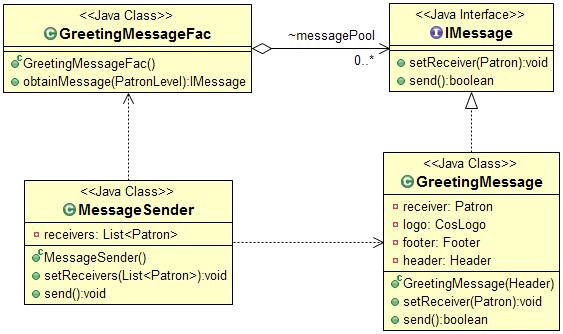
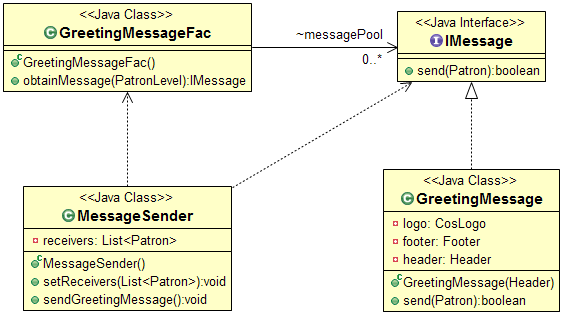
update flyweight pattern

diff --git a/MaoMao/src/ustc/maomao/patterns/flyweight/GreetingMessage.java b/MaoMao/src/ustc/maomao/patterns/flyweight/GreetingMessage.java
@@ -18,8 +18,7 @@ import ustc.maomao.patterns.support.Patron;
  * 
  */
 public class GreetingMessage implements IMessage {
-
-	private Patron receiver;// 消息接收者
+	
 	private CosLogo logo = CosLogo.instance();// 商标
 	private Footer footer = Footer.instance();// 尾注
 	private Header header;// 头注
@@ -28,27 +27,16 @@ public class GreetingMessage implements IMessage {
 		header = h;
 	}
 
-	/*
-	 * (non-Javadoc)
-	 * 
-	 * @see
-	 * ustc.maomao.patterns.flyweight.IMessage#setPatron(ustc.maomao.patterns.
-	 * support.Patron)
-	 */
-	@Override
-	public void setReceiver(Patron p) {
-		// TODO Auto-generated method stub
-		receiver = p;
-	}
-
+	
 	/*
 	 * (non-Javadoc)
 	 * 
 	 * @see ustc.maomao.patterns.flyweight.IMessage#send()
 	 */
 	@Override
-	public boolean send() {
-		System.out.println("消息已发送");
+	public boolean send(Patron r) {
+		Patron receiver=r;// 消息接收者
+		System.out.println(r.getName()+"的消息已发送");
 		return true;
 	}
 

diff --git a/MaoMao/src/ustc/maomao/patterns/flyweight/FlyweightTester.java b/MaoMao/src/ustc/maomao/patterns/flyweight/FlyweightTester.java
@@ -34,15 +34,18 @@ public class FlyweightTester implements PatternTester {
 			Patron p = new Patron();
 			if (i % 7 == 0) {
 				p.setLevel(PatronLevel.VIP);
+				p.setName("vip"+i);
 			} else if (i % 5 == 0) {
 				p.setLevel(PatronLevel.SVIP);
+				p.setName("svip"+i);
 			} else {
 				p.setLevel(PatronLevel.Normal);
+				p.setName("noraml"+i);
 			}
 			patrons.add(p);
 		}
 		ms.setReceivers(patrons);
-		ms.send();
+		ms.sendGreetingMessage();
 	}
 
 }

diff --git a/MaoMao/src/ustc/maomao/patterns/flyweight/MessageSender.java b/MaoMao/src/ustc/maomao/patterns/flyweight/MessageSender.java
@@ -30,12 +30,11 @@ public class MessageSender {
 	/**
 	 * 根据接收者列表发送消息
 	 */
-	public void send() {
+	public void sendGreetingMessage() {
 		GreetingMessageFac fac = new GreetingMessageFac();
 		for (Patron p : receivers) {
 			IMessage message = fac.obtainMessage(p.getLevel());
-			message.setReceiver(p);
-			message.send();
+			message.send(p);
 		}
 	}
 }

diff --git a/MaoMao/src/ustc/maomao/patterns/flyweight/IMessage.java b/MaoMao/src/ustc/maomao/patterns/flyweight/IMessage.java
@@ -16,13 +16,8 @@ import ustc.maomao.patterns.support.Patron;
  */
 public interface IMessage {
     /**
-     * 设置消息接收客户
-     * @param p 客户对象
-     */
-    public void setReceiver(Patron p);
-    /**
      * 发送消息
      * @return 发送结果
      */
-    public boolean send();
+    public boolean send(Patron receiver);
 }
